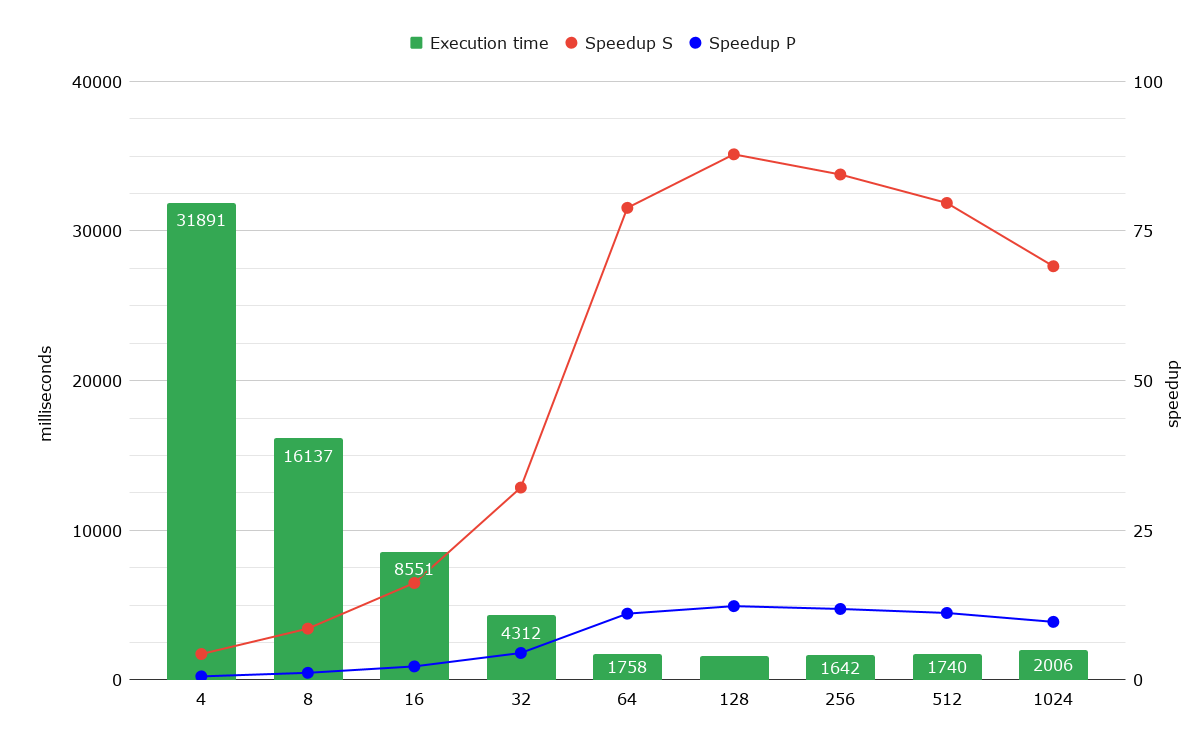
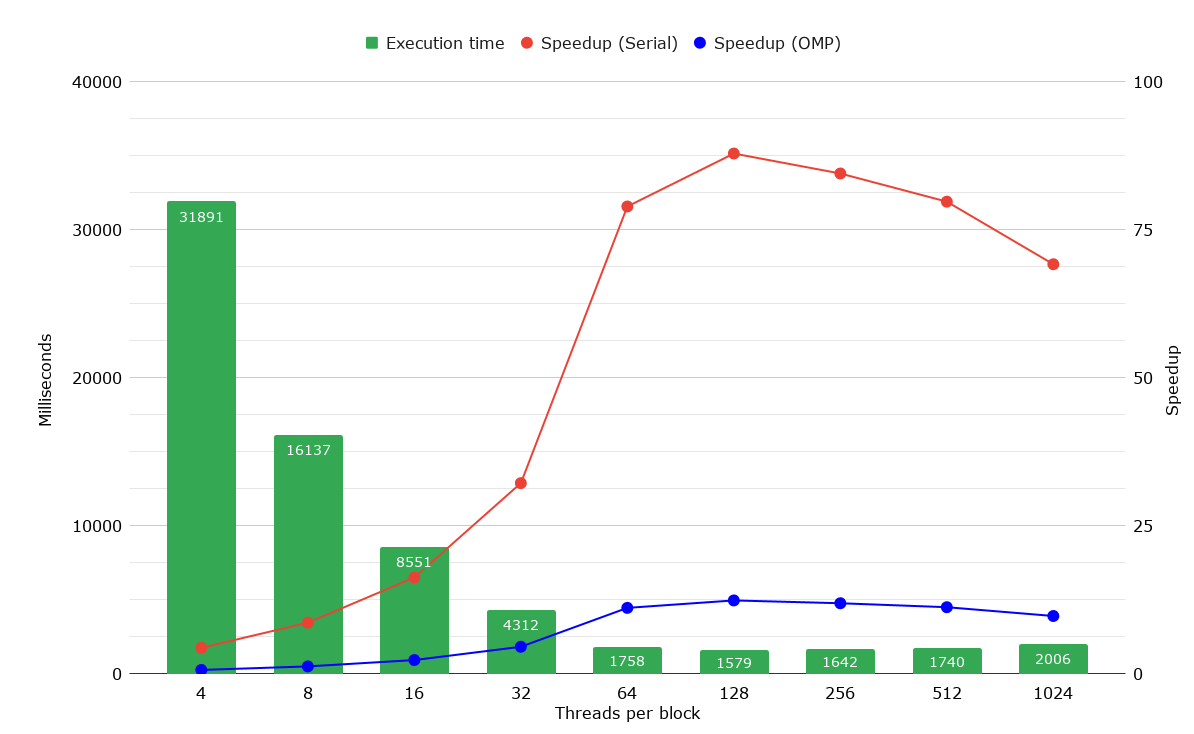
,

diff --git a/report/methodology.tex b/report/methodology.tex
@@ -138,7 +138,7 @@ Total communications can be expressed with the following formula, that can help 
 for this implementation:
 \[W_{comm} = 4(p-1)(1 + n^2(1 + \frac{2}{p})) \text{ bytes}\]
 This formula is important because the time spent on communications is time taken from the calculation and a network with an inadequate
-bandwith is the main source of bottlenecks. For example having 8 processes consuming a $125000 \times 125000$ matrix implies a total of
+bandwith is the main source of bottlenecks. For example having 8 processes consuming a $12500 \times 12500$ matrix implies a total of
 $\textasciitilde 5.46$GB transferred  over the entire network; this means that each processor would theorically spend $5468$ms (43 seconds in total) on communication over a 1Gbps network.
 
 \begin{figure}[h!]
@@ -425,12 +425,85 @@ An overview of the timings collected can be found in \textbf{Table \ref*{tab:omp
 
 
 \subsection{GPGPU with CUDA}
-...
+In recent years, many scientific and numeric GPGPU applications found success due to graphics hardware’s streaming data-parallel organizational model. With the introduction of NVIDIA G80 GPU architecture, the graphics pipeline
+now features a single unified set of processors that function as vertex, geometry, and fragment processors. Additionally, the release of the Compute Unified Device Architecture
+(CUDA) API [NVI07] on the G80 architecture allows developers to easily develop and manage general purpose scientific and numerical algorithms without formulating solutions
+in terms of nontrivial shaders and graphic primitives.
 
+
+The GPU serves, to an extent, as a coprocessor to the
+CPU programmed through the CUDA API. A single program know as a kernel is compiled to operate on the GPU
+device to exploit the massive data parallelism inherit on Single Instruction, Multiple Data (SIMD) architecture. Groups
+of threads then execute the kernel on the GPU. Threads
+are organized into blocks which allow efficient sharing of
+data through a high-speed shared memory region (16 kB in
+size) on the G80 architecture accessible to the programmer
+directly through CUDA. Shared memory is shared among
+threads in a block, facilitating higher bandwidth and overall
+performance gains. Therefore, algorithms must intelligently
+manage this ultra fast shared memory cache effectively. This
+will fully utilize the data parallelism capabilities of graphics
+hardware and alleviates any memory latency that data intensive algorithms suffer from on the GPU.
+
+Unlike the other two implementations, \emph{CUDA-FW} can rely on its \emph{grid-of-blocks} system and thus the kernel can do no loops: $k$ is still shared among threads
+so that no data race occurs but each thread instead of covering one or more rows, is assigned to a single cell. Whereas each block of threads covers horizzontally the
+entire matrix and vertically a proportional number of rows, depending on the number of threads per block.
+
+
+
+\begin{figure}[h!]
+\centering                                                                        
+\includegraphics[width=2.5in]{diagrams/cuda-threads}
+\captionsetup{justification=centering}                                                                                                                                   
+\caption{Mapping of CUDA threads inside $M$}                                                                                                                                            
+\label{fig:cuda-threads}                                                                                                                                                           
+\end{figure}
+
+
+
+
+
+\begin{algorithm}[h!]
+
+\SetAlgoLined
+
+\DontPrintSemicolon
+  \SetKwFunction{FMain}{kernel}
+  \SetKwProg{Fn}{Function}{:}{}
+  \Fn{\FMain{$M$, $n$, $k$}}{
+
+$i \leftarrow D_{y}(B) \times B_y + T_y$ \\
+$j \leftarrow D_{x}(B) \times B_x + T_x$ \\
+\If{$x < n \wedge y < n$}{
+	\If{$M_{i,j} < M_{i,k} + M_{k,j}$}{
+		$M_{i,j} \leftarrow M_{i,k} + M_{k,j}$
+	}
+}
+}
+ 
+\caption{Kernel of the \emph{CUDA-FW}}\label{alg:cuda}
+\end{algorithm}
+
+Because each thread does little computation and access memory, timings are really low if compared
+with \emph{serial-FW} and even \emph{OMP} FW with 8 cores. \\
+In fact from \textbf{Figure \ref*{fig:cuda-time}} we see a speedup up to $87.8$ times when comparing with \emph{serial} FW
+and $12.34$ with \emph{OMP} FW with 8 cores. We also notice that the maximum speedup is reached when the number of threads per block is equal to 128;
+that's because the occupancy of the Streaming Multiprocessors is at its peak and there are less threads wasted.
 \begin{figure}[h!]
 \centering                                                                        
 \includegraphics[width=3.5in]{diagrams/cuda-time}
 \captionsetup{justification=centering}                                                                                                                                   
 \caption{Efficiency of \emph{MPI} FW consuming a medium matrix}                                                                                                                                            
 \label{fig:cuda-time}                                                                                                                                                           
+\end{figure}
+
+Because the CUDA APIs don't allow the user to control the number of Streaming Multiprocessors or how many CUDA cores
+can be involved in the computation, the speedup and the efficiency are calculated based on the number of threads per block.
+
+\begin{figure}[h!]
+\centering                                                                        
+\includegraphics[width=3.5in]{diagrams/cuda-speedup}
+\captionsetup{justification=centering}                                                                                                                                   
+\caption{Speedup of \emph{CUDA} FW consuming a medium matrix compared to \emph{sequential} and \emph{OMP} FW}                                                                                                                                            
+\label{fig:cuda-speedup}                                                                                                                                                           
 \end{figure}
